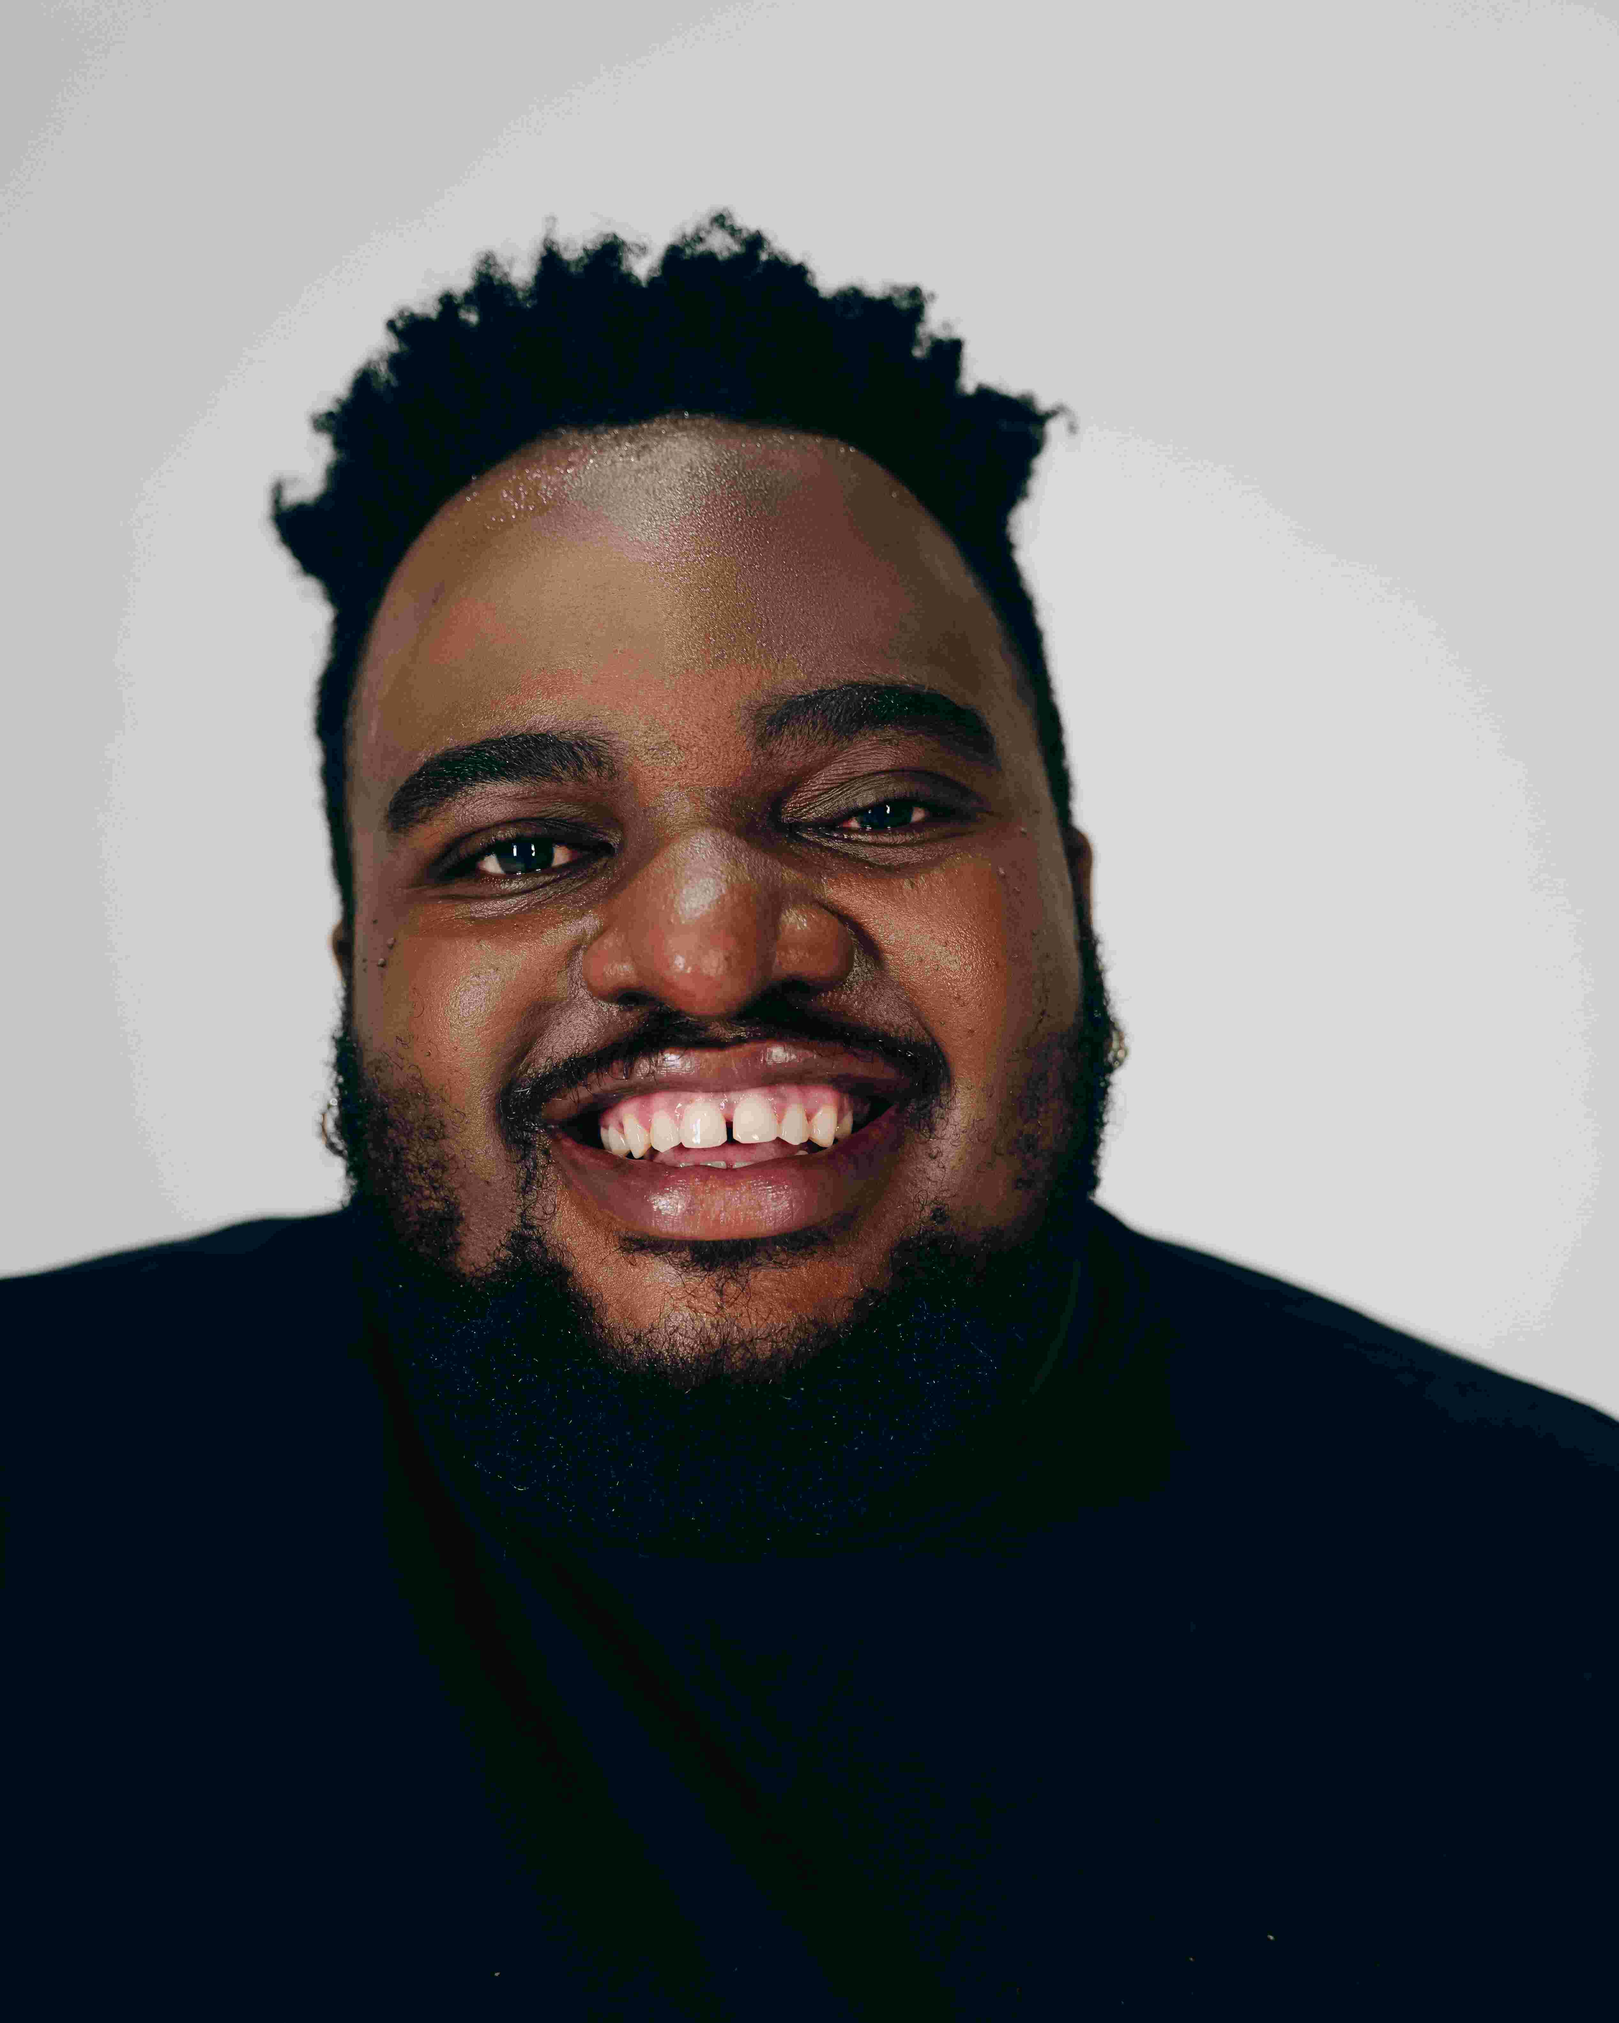
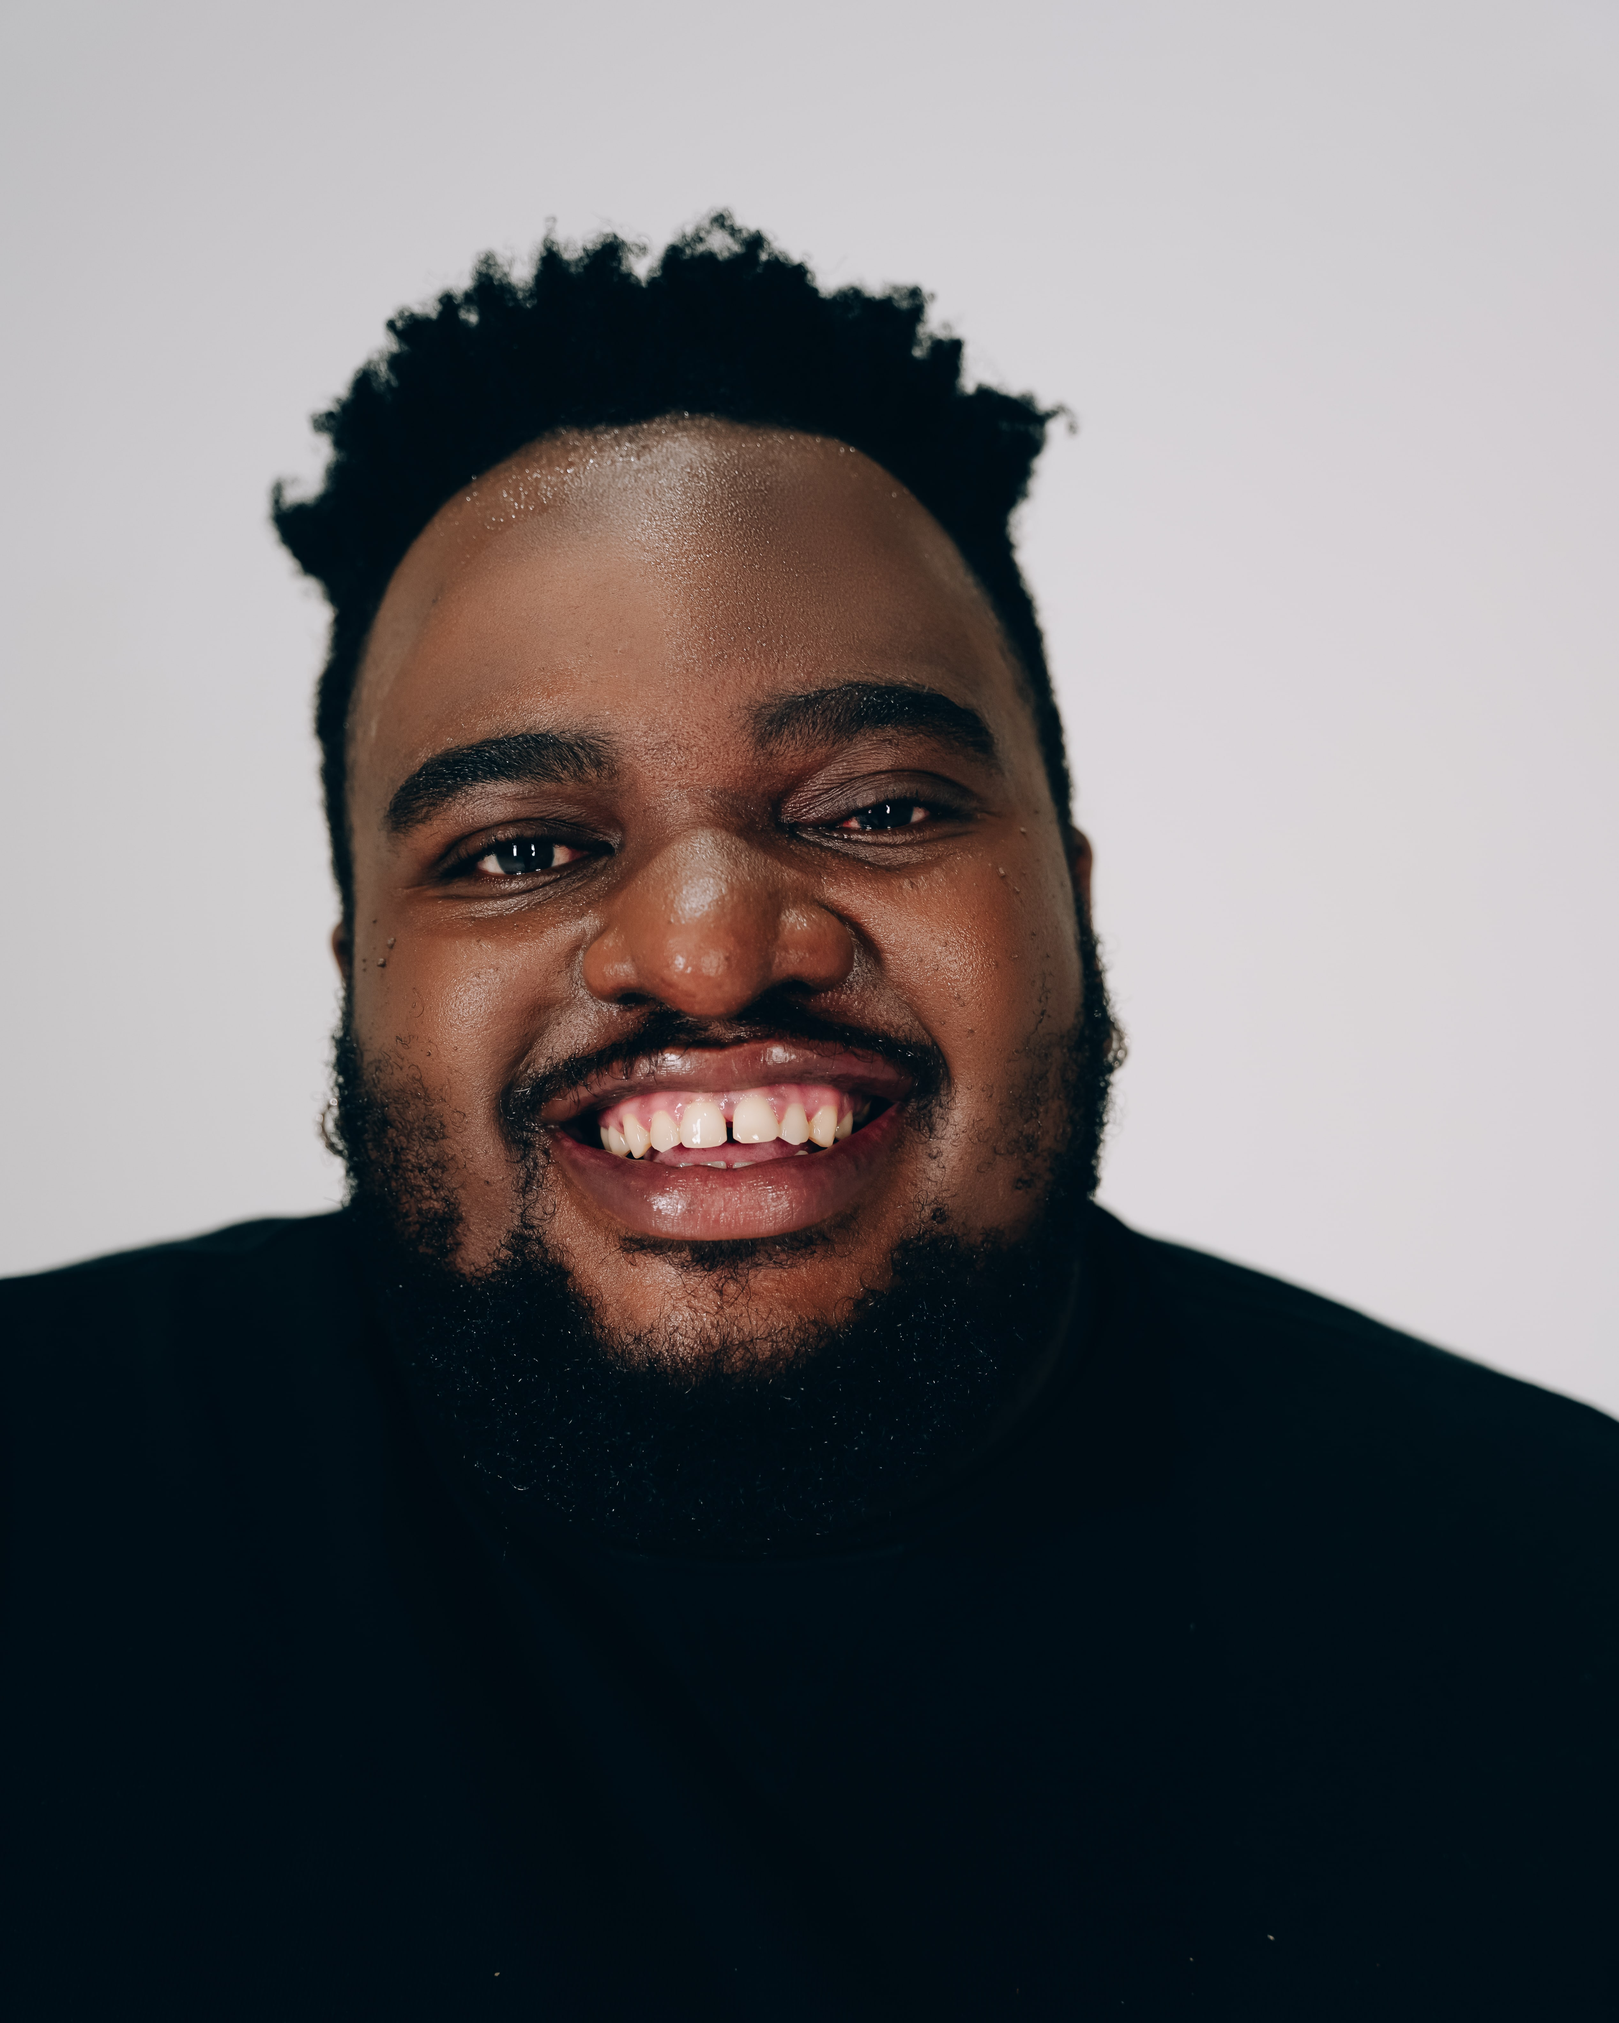
new updates

diff --git a/pages/artists.html b/pages/artists.html
@@ -51,7 +51,6 @@
                     <button class="filter-btn" data-value="zulu">Zulu</button>
                     <button class="filter-btn" data-value="tsonga">Tsonga</button>
                     <button class="filter-btn" data-value="venda">Venda</button>
-                    <button class="filter-btn" data-value="sipitori">Sipitori</button>
                     <button class="filter-btn" data-value="french">French</button>
                 </div>
             </div>
@@ -65,7 +64,7 @@
                          data-ethnicity="black"
                          data-gender="male"
                          data-language="english,sepedi,sotho,zulu">
-                        <img src="../assets/artists/freddy-mabitsela/DSC05538-Edit.jpg" alt="Freddy Mabitsela">
+                        <img src="../assets/artists/freddy-mabitsela/freddy-cover.jpg" alt="Freddy Mabitsela">
                         <h3>Freddy "Freddy" Mabitsela</h3>
                     </div>
                 </a>
@@ -74,7 +73,7 @@
                          data-ethnicity="black"
                          data-gender="male"
                          data-language="english">
-                        <img src="../assets/artists/isaac-olifant/DSC05496-Edit.jpg" alt="Isaac “Huey” Olifant">
+                        <img src="../assets/artists/isaac-olifant/isaac-cover.jpg" alt="Isaac “Huey” Olifant">
                         <h3>Isaac “Huey” Olifant</h3>
                     </div>
                 </a>
@@ -83,7 +82,7 @@
                          data-ethnicity="black"
                          data-gender="male"
                          data-language="english,venda,tsonga,sepedi,sipitori">
-                        <img src="../assets/artists/johny-khalo/DSC05697-Edit.jpg" alt="Johny Khalo">
+                        <img src="../assets/artists/johny-khalo/jonny-cover.jpg" alt="Johny Khalo">
                         <h3>Johny Khalo</h3>
                     </div>
                 </a>
@@ -92,7 +91,7 @@
                          data-ethnicity="black"
                          data-gender="female"
                          data-language="english">
-                        <img src="../assets/artists/kolosa-qali/DSC05600-Edit.jpg" alt="Kolosa Qali">
+                        <img src="../assets/artists/kolosa-qali/kolosa-cover.jpg" alt="Kolosa Qali">
                         <h3>Kolosa Qali</h3>
                     </div>
                 </a> 
@@ -110,7 +109,7 @@
                          data-ethnicity="black"
                          data-gender="male"
                          data-language="english,zulu">
-                        <img src="../assets/artists/mvangeli-nzuza/" alt="Mvangeli Nzuza">
+                        <img src="../assets/artists/mvangeli-nzuza/MVANGELI-cover.jpg" alt="Mvangeli Nzuza">
                         <h3>Mvangeli Nzuza</h3>
                     </div>
                 </a>
@@ -119,7 +118,7 @@
                          data-ethnicity="black"
                          data-gender="male"
                          data-language="english,zulu,sotho">
-                        <img src="../assets/artists/napo-modise/xowla-06226.jpg" alt="Napo Modise">
+                        <img src="../assets/artists/napo-modise/napo-cover.jpg" alt="Napo Modise">
                         <h3>Napo Modise</h3>
                     </div>
                 </a> 
@@ -128,7 +127,7 @@
                          data-ethnicity="black"
                          data-gender="female"
                          data-language="english,zulu">
-                        <img src="../assets/artists/phindile-zwane/DSC05641-Edit.jpg" alt="Phindile Zwane">
+                        <img src="../assets/artists/phindile-zwane/phindile-cover.jpg" alt="Phindile Zwane">
                         <h3>Phindile Zwane</h3>
                     </div>
                 </a>
@@ -137,7 +136,7 @@
                          data-ethnicity="black"
                          data-gender="female"
                          data-language="english,zulu">
-                        <img src="../assets/artists/ruth-jhinnabhoy/DSC05421-Edit.jpg" alt="Ruth Jhinnabhoy">
+                        <img src="../assets/artists/ruth-jhinnabhoy/ruth-cover.jpg" alt="Ruth Jhinnabhoy">
                         <h3>Ruth Jhinnabhoy</h3>
                     </div>
                 </a>  
@@ -146,7 +145,7 @@
                          data-ethnicity="black"
                          data-gender="female"
                          data-language="english,french">
-                        <img src="../assets/artists/sheila-ndikumana/SHEILA-1.jpg" alt="Sheila Ndikumana">
+                        <img src="../assets/artists/sheila-ndikumana/sheila-cover.jpg" alt="Sheila Ndikumana">
                         <h3>Sheila Ndikumana</h3>
                     </div>
                 </a>
@@ -155,7 +154,7 @@
                          data-ethnicity="black"
                          data-gender="male"
                          data-language="english">
-                        <img src="../assets/artists/sibusiso-hlatshwayo/DSC05576-Edit.jpg" alt="Sibusiso Hlatshwayo">
+                        <img src="../assets/artists/sibusiso-hlatshwayo/sbu-cover.jpg" alt="Sibusiso Hlatshwayo">
                         <h3>Sibusiso Hlatshwayo</h3>
                     </div>
                 </a>              
@@ -164,7 +163,7 @@
                          data-ethnicity="black"
                          data-gender="male"
                          data-language="english,zulu,sotho">
-                        <img src="../assets/artists/siya-raymond/img2.jpg" alt="Siya Raymond">
+                        <img src="../assets/artists/siya-raymond/siya-cover.jpg" alt="Siya Raymond">
                         <h3>Siya Raymond</h3>
                     </div>
                 </a>

diff --git a/pages/phindile-zwane.html b/pages/phindile-zwane.html
@@ -32,10 +32,11 @@
             </div>
             <!-- Thumbnails -->
             <div class="thumbnails">
-                <img src="../assets/artists/phindile-zwane/DSC05641-Edit.jpg" alt="Phindile Zwane" data-src="../assets/artists/phindile-zwane/DSC05641-Edit.jpg">
-                <img src="../assets/artists/phindile-zwane/DSC05658-Edit.jpg" alt="Phindile Zwane" data-src="../assets/artists/phindile-zwane/DSC05658-Edit.jpg">
-                <img src="../assets/artists/phindile-zwane/DSC05666-Edit.jpg" alt="Phindile Zwane" data-src="../assets/artists/phindile-zwane/DSC05666-Edit.jpg">
-                <img src="../assets/artists/phindile-zwane/DSC05671-Edit.jpg" alt="Phindile Zwane" data-src="../assets/artists/phindile-zwane/DSC05671-Edit.jpg">
+                <img src="../assets/artists/phindile-zwane/DSC05641-Edit.jpg" alt="Phindile Zwane" data-src="../assets/artists/napo-modise/xowla-06214.jpg">
+                <img src="../assets/artists/phindile-zwane/DSC05658-Edit.jpg" alt="Phindile Zwane" data-src="../assets/artists/napo-modise/xowla-06216.jpg">
+                <img src="../assets/artists/phindile-zwane/DSC05666-Edit.jpg" alt="Phindile Zwane" data-src="../assets/artists/napo-modise/xowla-06226.jpg">
+                <img src="../assets/artists/phindile-zwane/DSC05671-Edit.jpg" alt="Phindile Zwane" data-src="../assets/artists/napo-modise/xowla-06226.jpg">
+            </div>
         </div>
 
         <!-- Pop-up Container -->
@@ -58,7 +59,6 @@
                 </p>
             </section>
 
-
             <!-- Audio Files Section -->
             <section class="artist-audio">
                 <div class="audio-container">
@@ -72,20 +72,19 @@
                     <div class="audio-file">
                         <p>Phindile Zwane - Hard-sell</p>
                         <audio controls>
-                            <source src="../assets/artists/phindile-zwane/narration-demo.mp3" type="audio/mpeg">
+                            <source src="../assets/artists/phindile-zwane/" type="audio/mpeg">
                             Your browser does not support the audio element.
                         </audio>
                     </div>
                     <div class="audio-file">
                         <p>Phindile Zwane - Corporate</p>
                         <audio controls>
-                            <source src="../assets/artists/phindile-zwane/character-demo.mp3" type="audio/mpeg">
+                            <source src="../assets/artists/phindile-zwane/" type="audio/mpeg">
                             Your browser does not support the audio element.
                         </audio>
                     </div>
                 </div>
             </section>
-
         </div>
     </div>
 </main>

diff --git a/styles.css b/styles.css
@@ -142,18 +142,18 @@ header {
 	justify-content: center;
 	align-items: center;
 	text-align: center;
-
+	height: 100%;
 	background-color: #ffffff;
 	border-radius: var(--card-radius);
 
 	max-width: 1200px;
 	margin: 0 2rem !important;
-	border: 2px solid black;
+	box-shadow: var(--card-shadow);
 }
 .introduction h1 {
 	font-size: 4.5rem;
 	margin-bottom: 0rem;
-	padding-top: 4rem;
+	padding-top: 1.5rem;
 	color: black;
 	background-color: ;
 	border-radius: 4px 4px 0 0;
@@ -163,7 +163,7 @@ header {
 	font-family: poppins;
 	font-weight: ;
 	font-size: 1.2rem;
-	margin-top: 2rem;
+	margin-top: 0rem;
 
 	text-align: center;
 	color: #313131;
@@ -172,33 +172,13 @@ header {
 .space {
 	height: 8rem;
 }
-.photos-wrapper {
-	display: flex;
-	justify-content: center;
-	align-items: center;
-	margin: 50px;
-}
-.intro-photo {
-	display: grid;
-	grid-template-columns: repeat(2, 1fr);
-	gap: 2rem;
-	padding-top: 2rem;
-	padding-bottom: 2rem;
-	align-items: center;
-	border-radius: var(--card-radius);
-	max-width: 900px;
-}
-.intro-pic img {
-	width: 100%;
-	height: auto;
-	border-radius: var(--card-radius);
-	box-shadow: 0 2px 5px rgba(0, 0, 30, 0.801);
-}
+
 .buttons {
+	position: relative;
 	display: flex;
 	justify-content: center;
 	align-items: center;
-	padding-top: 4rem;
+	margin-top: 1rem;
 	height: 4rem;
 }
 .button-space {
@@ -214,10 +194,11 @@ header {
 	color: black;
 	font-size: 1rem;
 	font-weight: 600;
-	width: 100%;
+	width: 12rem;
 	border-radius: 5px;
 	text-align: center;
 	transition: background-color 0.3s ease, transform 0.3s ease;
+	padding-bottom: 1rem;
 }
 .black {
 	background-color: #1a1a1a;
@@ -243,7 +224,7 @@ header {
 
 .p-services {
 	font-family: poppins;
-	font-size: 1.2rem;
+	font-size: 1.5rem;
 	margin: 12rem;
 	margin-top: 5rem;
 	margin-bottom: 0 !important;
@@ -969,6 +950,8 @@ footer {
 	height: auto; /* Remove fixed height */
 	padding: 0;
 	contain: content;
+	max-width: 278.33px;
+	max-height: 278.33px;
 }
 
 .artist-tile:hover {

diff --git a/contact-page.html b/contact-page.html
@@ -58,13 +58,10 @@
             <h3>Get in Touch</h3>
             <p><strong>Email:</strong> info@mothanjusttalent.com</p>
             <p><strong>Phone:</strong> +27 69 657 4645</p>
-            <p><strong>Address:</strong> 98 Conrad Drive</p>
-            <p>Blairgowrie, Randburg</p>
-            <p>Gauteng</p>
-            <p>2194</p>
+            <p><strong>Address:</strong> 98 Conrad Drive, Blairgowrie, Randburg</p>
             <div class="map-placeholder">     
             <iframe 
-                src="https://www.google.com/maps/embed?pb=!1m18!1m12!1m3!1d229751.892570928!2d27.8755532!3d-26.1714281!2m3!1f0!2f0!3f0!3m2!1i1024!2i768!4f13.1!3m3!1m2!1s0x1e950c68f0406a51%3A0x238ac9d9b1d34041!2sJohannesburg!5e0!3m2!1sen!2sza!4v1713624961239!5m2!1sen!2sza" 
+                src="https://www.google.com/maps/embed?pb=!1m18!1m12!1m3!1d3582.5282382651058!2d28.0182045!3d-26.114314300000004!2m3!1f0!2f0!3f0!3m2!1i1024!2i768!4f13.1!3m3!1m2!1s0x1e9574aa7c0f4b7f%3A0x22251b277a636790!2s98%20Conrad%20Dr%2C%20Blairgowrie%2C%20Johannesburg%2C%202194!5e0!3m2!1sen!2sza!4v1749817719818!5m2!1sen!2sza" 
                 style="border:0;" 
                 object-fit="cover"
                 width="100%"

diff --git a/pages/mvangeli-nzuza.html b/pages/mvangeli-nzuza.html
@@ -28,13 +28,13 @@
         <div class="artist-images">
             <!-- Large Image -->
             <div class="large-image">
-                <img src="../assets/artists/mvangeli-nzuza/" alt="Mvangeli Nzuza">
+                <img src="../assets/artists/mvangeli-nzuza/MVANGELI-08110.jpg" alt="Mvangeli Nzuza">
             </div>
             <!-- Thumbnails -->
             <div class="thumbnails">
-                <img src="../assets/artists/mvangeli-nzuza/" alt="Mvangeli Nzuza" data-src="../assets/artists/">
-                <img src="../assets/artists/mvangeli-nzuza/" alt="Mvangeli Nzuza" data-src="../assets/artists/">
-                <img src="../assets/artists/mvangeli-nzuza/" alt="Mvangeli Nzuza" data-src="../assets/artists/">
+                <img src="../assets/artists/mvangeli-nzuza/MVANGELI-08116.jpg" alt="Mvangeli Nzuza" data-src="../assets/artists/">
+                <img src="../assets/artists/mvangeli-nzuza/MVANGELI-08122.jpg" alt="Mvangeli Nzuza" data-src="../assets/artists/">
+                <img src="../assets/artists/mvangeli-nzuza/MVANGELI-08127.jpg" alt="Mvangeli Nzuza" data-src="../assets/artists/">
             </div>
         </div>
 

diff --git a/index.html b/index.html
@@ -41,9 +41,9 @@
         </div>
 <body>
     
-    <div class="space"></div>
-    <div class="intro-wrapper">
-    <section id="aboutus" class="introduction">
+    <div id="aboutus" class="space"></div>
+    <div  class="intro-wrapper">
+    <section class="introduction">
         <h1>About Us</h1>
                 <div class="about-card">
                         <p class="p-intro">
@@ -62,16 +62,17 @@
                         <div class="button-space"></div>
                     </div>
                 </div>
-                <div class="space"></div>
+               
     </div>      
 
                 <div class="space"></div>
                 <p id="services" class="p-services">
                 <br><br>
-                <b>Need more than just a voice?</b> <br><br>
+                <b>Need more than just a voice?</b> <br>
                 We also offer top-notch Copywriting and Translations to make 
                 sure your message lands clearly, creatively, and in the right 
                 language.</p>
+                <br>
         
     </section>  
     </div>

diff --git a/pages/freddy-mabitsela.html b/pages/freddy-mabitsela.html
@@ -48,7 +48,7 @@
         <div class="artist-content">
             <!-- Bio Section -->
             <section class="artist-bio">
-                <h2>Freddy “Freddy” Mabitsela</h2>
+                <h2>Frederick “Freddy” Mabitsela</h2>
                 <p>
                     Frederick Mabitsela is an award-winning radio presenter, podcast producer, and voice artist with over 12 years of experience in broadcasting, audio production, and audience engagement. His journey began at VOW FM in 2011, where he rose from hosting the Breakfast Show to becoming the station voice—a testament to his versatility and presence behind the mic.
 
